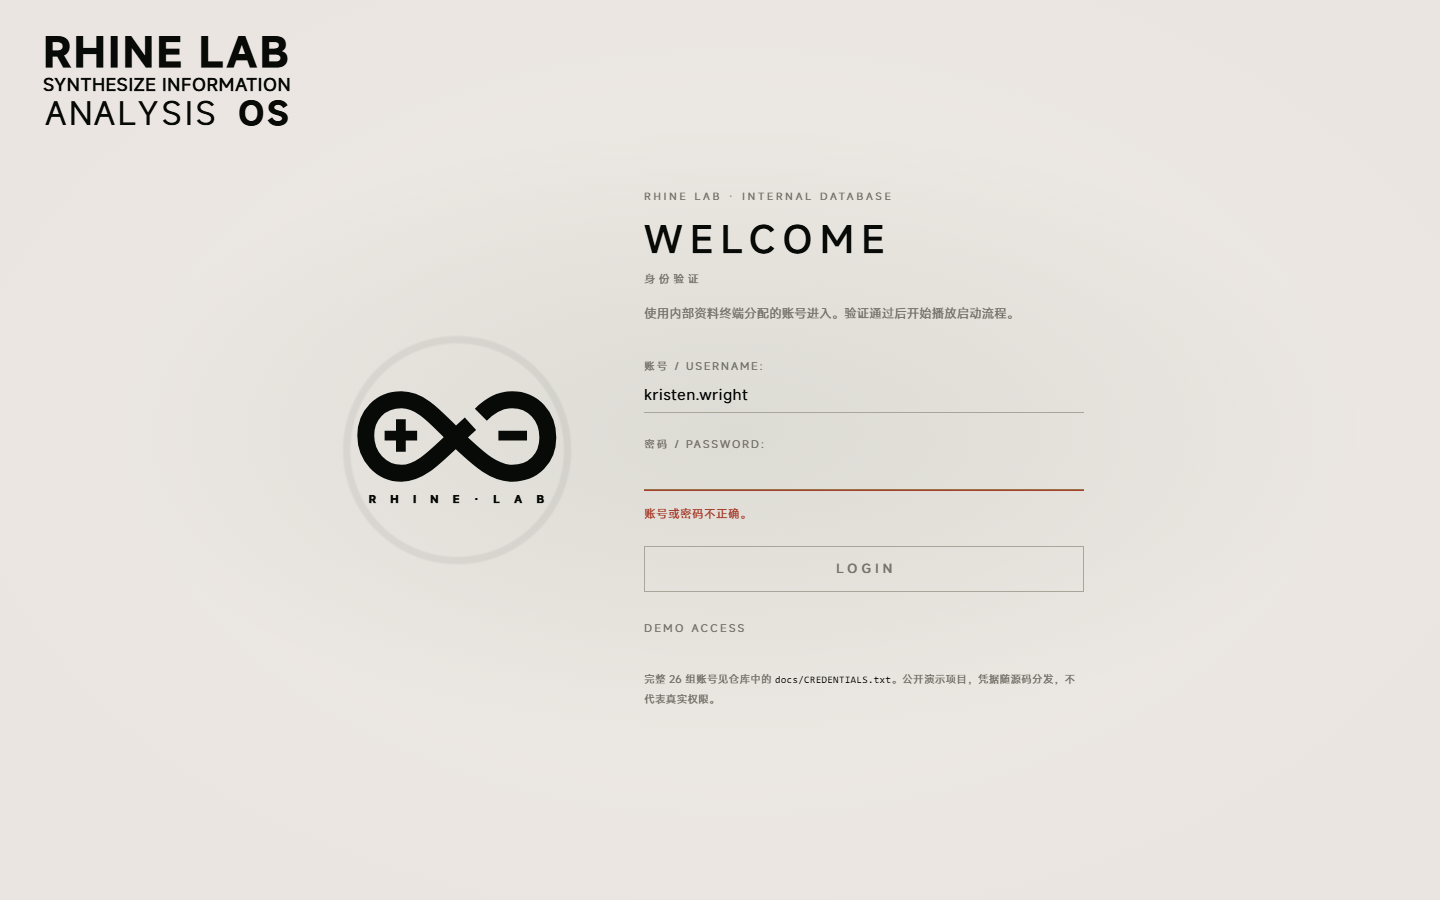
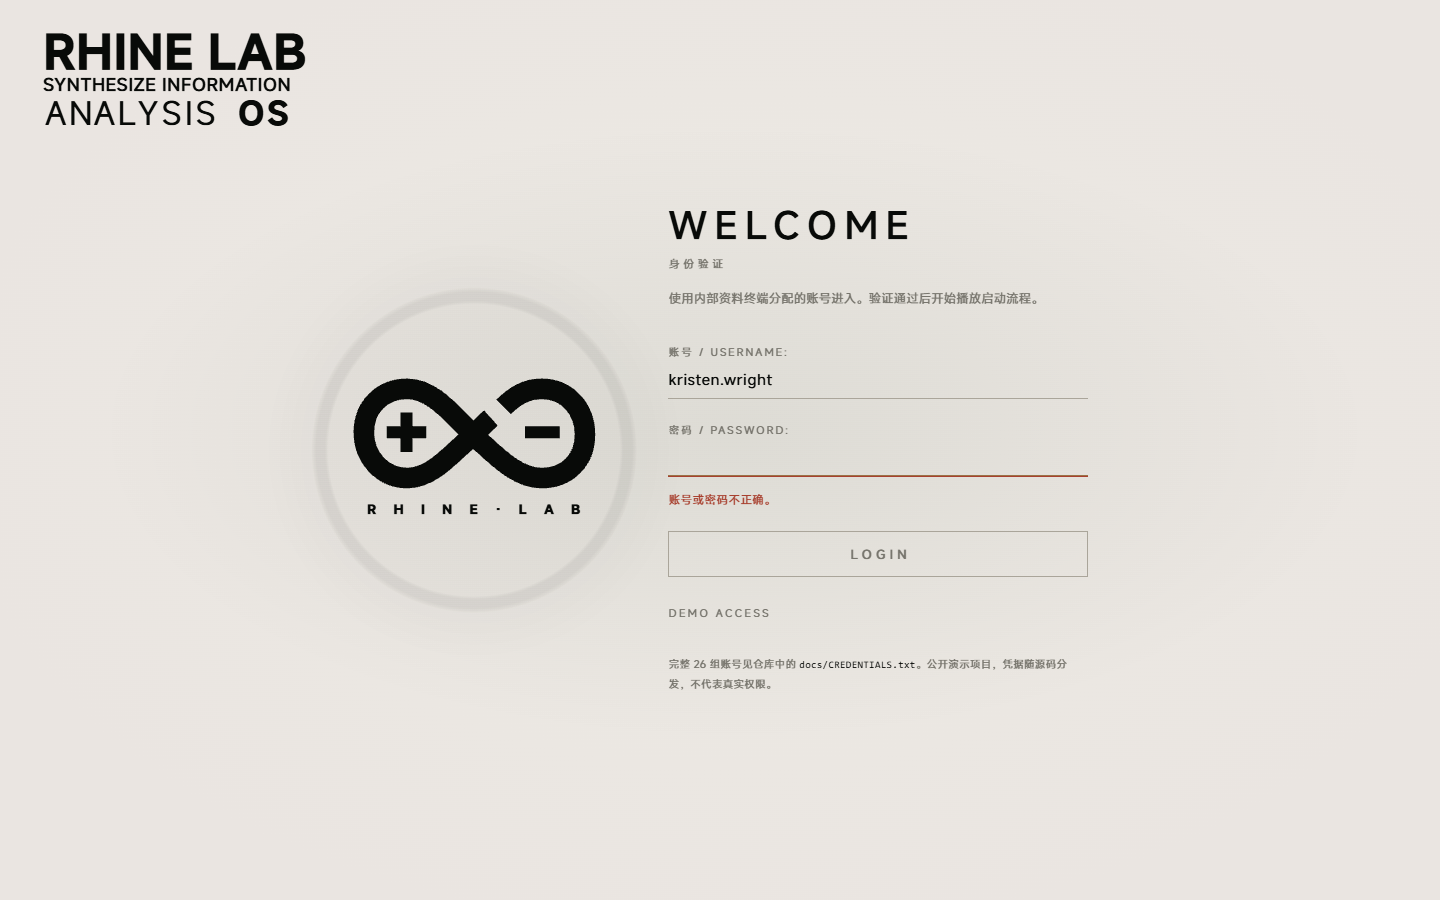
style(session): tighten the sign-in composition and let each theme set its own weight
对着参考图逐一比对后的收尾调整：

- 标志从 14vw 提到 17vw，栏间距从 6vw 收到 5vw，整组更靠拢。
- 光晕改为「极淡圆盘 + 稍亮圆环」两层，并按主题分档：亮色 2.5%/6%，
  暗色 4%/12%。纸面本就亮，单一 alpha 在亮色下会读成一块灰斑。
- 输入框底线改用 --login-rule，暗色下向 --theme-muted 提一档；原本的
  --theme-line（#536166）贴在 #11181b 上几乎看不见。
- 删掉标题上方的 kicker，让 WELCOME 直接接第一项输入，与参考图一致。

证据改为取自真实产物：shot-dist.mjs 静态服务 dist/，只在 head 注入
「写主题偏好 / 清已存会话」与 ?state= 驱动，7 张图与 27 项断言全部
来自生产构建。npm run build 亦已完整跑通（113 模块，PWA 821 文件）。

顺带记下本机构建被拦的成因与绕过方式（工作区内的 esbuild.exe 读盘
被拒，复制到工作区外即可），见 AGENTS.md 与 verification/LOGIN-SURFACE.md。

diff --git a/src/login.css b/src/login.css
@@ -10,6 +10,16 @@
     var(--theme-line, #aaa59a) 55%,
     transparent
   );
+  /* The underline is the only chrome the fields have, so it cannot inherit
+     --theme-line raw: in the dark palette that value all but disappears
+     against --theme-paper. Lifting it toward --theme-muted keeps the rule
+     legible in both palettes without inventing a third colour. */
+  --login-rule: var(--theme-line, #aaa59a);
+  /* The halo is deliberately weak on the light palette -- paper is already
+     bright, so the same alpha that reads as "a ring" on the dark gradient
+     reads as a grey smudge here. */
+  --login-halo-disc: color-mix(in srgb, var(--theme-ink, #080a08) 2.5%, transparent);
+  --login-halo-ring: color-mix(in srgb, var(--theme-ink, #080a08) 6%, transparent);
   position: fixed;
   inset: 0;
   z-index: 60;
@@ -35,6 +45,13 @@
 
 [data-dark-surface="true"] .login {
   --login-danger: #dd8874;
+  --login-rule: color-mix(
+    in srgb,
+    var(--theme-line, #536166) 60%,
+    var(--theme-muted, #a6b0b1)
+  );
+  --login-halo-disc: color-mix(in srgb, var(--theme-ink, #e0e3dc) 4%, transparent);
+  --login-halo-ring: color-mix(in srgb, var(--theme-ink, #e0e3dc) 12%, transparent);
 }
 
 /* The wordmark reuses .brand wholesale, so the gate and the terminal cannot
@@ -48,14 +65,16 @@
   pointer-events: none;
 }
 
+/* The reference keeps the mark's column and the form's column close together
+   around the centre; a wide gutter would strand the mark on the left. */
 .login-body {
   display: grid;
-  grid-template-columns: auto minmax(0, 440px);
+  grid-template-columns: auto minmax(0, 420px);
   align-items: center;
   justify-content: center;
-  column-gap: clamp(34px, 6vw, 104px);
+  column-gap: clamp(30px, 5vw, 86px);
   width: 100%;
-  max-width: 1200px;
+  max-width: 1040px;
   margin: auto;
 }
 
@@ -64,27 +83,34 @@
   display: grid;
   place-items: center;
   justify-self: center;
-  width: clamp(164px, 14vw, 258px);
+  width: clamp(184px, 17vw, 300px);
   aspect-ratio: 310 / 185;
 }
 
-/* A ring rather than a disc, matching the faint circle the reference draws
-   behind the mark. 170% of the mark's width, drawn around its centre. */
+/* A soft disc inside a brighter rim, matching the faint circle the reference
+   draws behind the mark. Both scale off the mark's box, so the ring keeps its
+   proportion at every size. */
 .login-mark-halo {
   position: absolute;
   left: 50%;
   top: 50%;
-  width: 172%;
+  width: 196%;
   aspect-ratio: 1;
   transform: translate(-50%, -50%);
   border-radius: 50%;
   pointer-events: none;
-  background: radial-gradient(
-    circle,
-    transparent 0 43%,
-    color-mix(in srgb, var(--theme-ink, #080a08) 6%, transparent) 44% 46%,
-    transparent 47% 100%
-  );
+  background:
+    radial-gradient(
+      circle,
+      var(--login-halo-disc) 0 42%,
+      transparent 62% 100%
+    ),
+    radial-gradient(
+      circle,
+      transparent 0 43%,
+      var(--login-halo-ring) 44% 46.5%,
+      transparent 48% 100%
+    );
 }
 
 .login-mark-svg {
@@ -109,13 +135,8 @@
   min-width: 0;
 }
 
-.login-kicker {
-  margin: 0 0 16px;
-  font-size: 10px;
-  letter-spacing: 0.3em;
-  color: var(--theme-muted, #77756d);
-}
-
+/* The reference opens straight on WELCOME: a kicker above it only added a
+   fourth tier of tracked caps above the first field, so it is gone. */
 .login-title {
   margin: 0;
   font-size: clamp(27px, 2.6vw, 38px);
@@ -173,7 +194,7 @@
   color: var(--theme-ink, #080a08);
   background: none;
   border: 0;
-  border-bottom: 1px solid var(--theme-line, #aaa59a);
+  border-bottom: 1px solid var(--login-rule);
   border-radius: 0;
   transition:
     border-color 180ms ease,
@@ -242,7 +263,7 @@
      action, but plainly not armed yet. A faded fill would just read as broken. */
   color: var(--theme-muted, #77756d);
   background: none;
-  box-shadow: inset 0 0 0 1px var(--theme-line, #aaa59a);
+  box-shadow: inset 0 0 0 1px var(--login-rule);
   cursor: default;
 }
 

diff --git a/src/login.ts b/src/login.ts
@@ -86,7 +86,6 @@ export class LoginGate {
       <div class="login-body">
         <div class="login-mark" aria-hidden="true"><span class="login-mark-halo"></span><span class="login-mark-svg">${logo}</span></div>
         <div class="login-main">
-          <p class="login-kicker">RHINE LAB · INTERNAL DATABASE</p>
           <h2 class="login-title" id="login-title">WELCOME<span>身份验证</span></h2>
           <p class="login-lede">使用内部资料终端分配的账号进入。验证通过后开始播放启动流程。</p>
           <form class="login-form" novalidate>

diff --git a/verification/LOGIN-SURFACE.md b/verification/LOGIN-SURFACE.md
@@ -5,9 +5,11 @@
 ## 做了什么
 
 - **去面板化**：登录页改为整屏铺开，直接使用开场背景的同一组渐变数值（`ellipse at 51% 48%, var(--theme-panel) → var(--theme-paper) 76%`），因此登录结束接开场没有接缝。参考图的深色观感由暗色主题给出。
-- **双栏构图**：左侧标志（`.login-mark`，含 172% 宽度的微弱环形光晕），右侧表单；整组居中。`#viewport` 内不受 `#stage` 缩放影响，用真实视口像素。
-- **下划线输入**：输入框只剩一条底线；聚焦时用 `inset` 阴影加粗到 2px，不产生重排。失败时底线与状态文字转红（暗色下用更亮的 `#dd8874`）。
-- **整宽按钮**：`--theme-ink` 底 + `--theme-paper` 字，两种主题下都是实心条；未填完两项时退化为描边空条（原先的半透明填充会读成「坏掉了」）。按钮文案改回 `LOGIN`，等待声音时显示 `PREPARING AUDIO…`。
+- **双栏构图**：左侧标志（`.login-mark`），右侧表单；整组居中，栏间距收窄到与参考图相当的比例。`#viewport` 内不受 `#stage` 缩放影响，用真实视口像素。
+- **标志光晕**：`.login-mark-halo` 画在标志后方，196% 宽度，由「极淡的圆盘 + 稍亮的圆环」两层径向渐变组成。强度分主题：亮色下纸面已经很亮，同样的 alpha 会读成一块灰斑，故亮色用 2.5% / 6%，暗色提到 4% / 12%（`--login-halo-disc`、`--login-halo-ring`）。
+- **下划线输入**：输入框只剩一条底线；聚焦时用 `inset` 阴影加粗，不产生重排。底线走 `--login-rule` 而不是 `--theme-line`：暗色下 `#536166` 贴在 `#11181b` 上几乎看不见，向 `--theme-muted` 提一档才在两种主题里都读得出。失败时底线与状态文字转红（暗色下用更亮的 `#dd8874`）。
+- **整宽按钮**：`--theme-ink` 底 + `--theme-paper` 字，两种主题下都是实心条；未填完两项时退化为描边空条（原先的半透明填充会读成「坏掉了」）。按钮文案 `LOGIN`，等待声音时显示 `PREPARING AUDIO…`。
+- **标题区只有 `WELCOME`**：参考图在标题上方没有内容，故删掉了此前的 `RHINE LAB · INTERNAL DATABASE` kicker —— 它会成为第一项输入之前的第四层字距拉开的文字，且与左上标志块重复。
 - **左上标志复用 `.brand`**：沿用既有的 44px / 19px / 35px 字距校准，只覆写锚点与 `transform: scale()`，不产生第二份字距参数。选择器写作 `.login .login-brand`，与 `style.css` 的加载顺序无关。
 - **底栏链接行**：左侧 `DEMO ACCESS`（取代参考图的 `REGISTER`，本项目没有注册流程）展开三条示例账号，点选直接填表并聚焦提交；右侧 `ENTER WITHOUT AUDIO` 仍是声音失败时的无声通道，默认隐藏。
 - **配色不写死**：`paintTheme()` 在构造登录页之前就已写入 `--theme-*`，所以同一套版式在亮色下是浅色版。原先 `login.css` 里「此屏早于会话，读不到主题变量」的注释是错的，已删除。
@@ -18,15 +20,23 @@
 
 ## 验证
 
-- `tsc --noEmit` 通过（682 个文件）;`npm run check:content` 46/46 通过。
-- 本机未安装 playwright，`scripts/check-*.mjs` 无法运行。改用临时 harness：用 `esbuild.transform()` 逐文件转译后手工拼接（沙箱里 esbuild 的 service 进程读不到磁盘），链接**真实的 `style.css`**（不手抄片段），静态服务把 `/fonts/*` 映射到 `public/`，再在真实 Chrome 中驱动 `LoginGate`。
-- 结果见 `behaviour.json`：27 项断言全部通过，覆盖空提交、大小写与空格容错、失败计数与清空、DEMO 展开与填表、声音成功／被拒／抛错三种回执、无声通道。
-- 截图见同目录：暗色桌面（默认态 / 已填 / 示例账号）、亮色桌面（默认态 / 失败态）、暗色手机 390×844。
-- 手机档通过 390×844 的 iframe 取得真实窄视口（Windows 上 Chrome/Edge 的窗口宽有约 500px 下限，`--force-device-scale-factor` 在 `--headless=new` 下不生效）。该档下两项输入、`LOGIN` 按钮、链接行与说明全部落在视口内。
+- `tsc --noEmit` 通过（682 个文件）；`npm run check:content` 46/46 通过。
+- **完整生产构建通过**：`npm run build`（`prebuild` → `tsc` → `vite build` → `build-pwa`）产出 113 模块、CSS 687 kB / JS 1035 kB，PWA 离线包 821 文件 / 33.9 MiB。本机需把 `ESBUILD_BINARY_PATH` 指向**工作区之外**的一份 `esbuild.exe` 副本，否则 esbuild 的磁盘读取会被拒（见下）。
+- **截图取自真实产物**：`shot-dist.mjs` 静态服务 `dist/`，只在 `<head>` 注入两段 classic script —— 一个写入 `rhine-settings` / 清掉已存会话，一个在 `?state=` 时等登录页挂载后再填表。因此本次证据不是替身页面渲染的。
+- **行为断言 27/27**：本机未安装 playwright，`scripts/check-*.mjs` 无法运行，故 `build.mjs` 用 `esbuild.transform()` 逐文件转译后手工拼接，链接**真实的 `style.css`**（不手抄片段），在真实 Chrome 里驱动 `LoginGate`，结果回传到服务端落盘为 `behaviour.json`。覆盖空提交、大小写与空格容错、失败计数与清空、DEMO 展开与填表、声音成功／被拒／抛错三种回执、无声通道。
+- 截图清单：`desktop-dark`、`desktop-light`、`wide-dark`（1920×1080）、`narrow-dark`（500×900，触发单栏堆叠）、`filled-dark`（按钮转为实心条）、`samples-dark`（DEMO 展开）、`failed-light`（红色底线与状态）。
 
 ## 未覆盖
 
 - 未做逐像素对照：参考图来自另一个应用，配色、字号与间距沿用本项目规范，只取版式。
 - 开场接续只在数值上对齐（同一组渐变），没有逐帧录制登录结束到开场首帧的过渡。
-- 未在真实 iPhone / Safari 上验证。
-- `verification/login-surface/*.png` 由临时 harness 生成，harness 本身在 `.tools/login-review/`（不进入 Git）。
+- 未在真实 iPhone / Safari 上验证；`narrow-dark` 用 500×900 窗口触发单栏断点，不是 390×844 的真实手机视口（Windows 上 Chrome 窗口宽有约 500px 下限）。
+- `verification/login-surface/*.png` 与 `behaviour.json` 由 `.tools/login-review/` 下的临时脚手架生成，脚手架本身不进入 Git。
+
+## 环境备注（与本次改动无关，但会拦住构建）
+
+`npm run build` 一开始报 `Cannot read file "package.json": winapi error #5`（`ACCESS_DENIED`）。定位结果：
+
+- 同一个 `esbuild.exe` 在 `node_modules/@esbuild/win32-x64/` 下读任何文件都被拒，复制到工作区之外（如 `%TEMP%`）后读写正常。`node`、`python` 读同一批文件都正常。即拦截按**可执行文件所在路径**生效，工作区内的二进制被视为不可信。
+- 因此这是执行环境的策略，不是项目缺陷：`dist/` 里有 2026-10-02 的正常构建产物，用户自己跑构建不受影响。
+- 本地复现构建的方式：`cp node_modules/@esbuild/win32-x64/esbuild.exe "$TEMP/eb/esbuild.exe"`，再 `ESBUILD_BINARY_PATH="C:\\...\\eb\\esbuild.exe" npm run build`。

diff --git a/AGENTS.md b/AGENTS.md
@@ -137,6 +137,13 @@
 - 底栏左侧 `DEMO ACCESS` 取代参考图的 `REGISTER`（本项目没有注册流程）：展开三条示例账号，点选直接填表，方便访客不离开页面就能进入演示；右侧 `ENTER WITHOUT AUDIO` 仍是声音失败时的无声通道，默认隐藏。完整 26 组凭据仍在 `docs/CREDENTIALS.txt`。
 - 登录页位于 `#stage` 之外，读不到存放「减少动态效果」偏好的 `.reduce-motion` 类，因此只响应系统的 `prefers-reduced-motion`。
 - 用户标注中「参考这个」指的是版式与配色，未要求逐像素复刻；标记、字号、间距均沿用本项目既有规范。
+- **两处按主题分档的强度，不要退回单一数值**：输入框底线用 `--login-rule`（暗色下 `--theme-line` 贴在纸面上几乎不可见，需向 `--theme-muted` 提一档）；标志光晕用 `--login-halo-disc` / `--login-halo-ring`（亮色纸面已经很亮，暗色下合适的 alpha 在这里会读成一块灰斑）。
+- 标题区保持只有 `WELCOME`：不要重新加回 kicker 一类的文字，它会在第一项输入之前堆出第四层字距拉开的文字。
+
+## 构建环境（本机特殊）
+
+- `esbuild.exe` 在**工作区内**读取任何文件都会被拒（`winapi error #5`），复制到工作区之外即正常；`node`、`python` 不受影响。这是执行环境按可执行文件路径拦截，不是项目缺陷。
+- 若在本机遇到 `Cannot read file "package.json"`：`cp node_modules/@esbuild/win32-x64/esbuild.exe "$TEMP/eb/esbuild.exe"`，再以 `ESBUILD_BINARY_PATH` 指向该副本运行 `npm run build`。用户从终端自行构建时不需要这一步。
 
 ## 正式功能提交与同步
 
